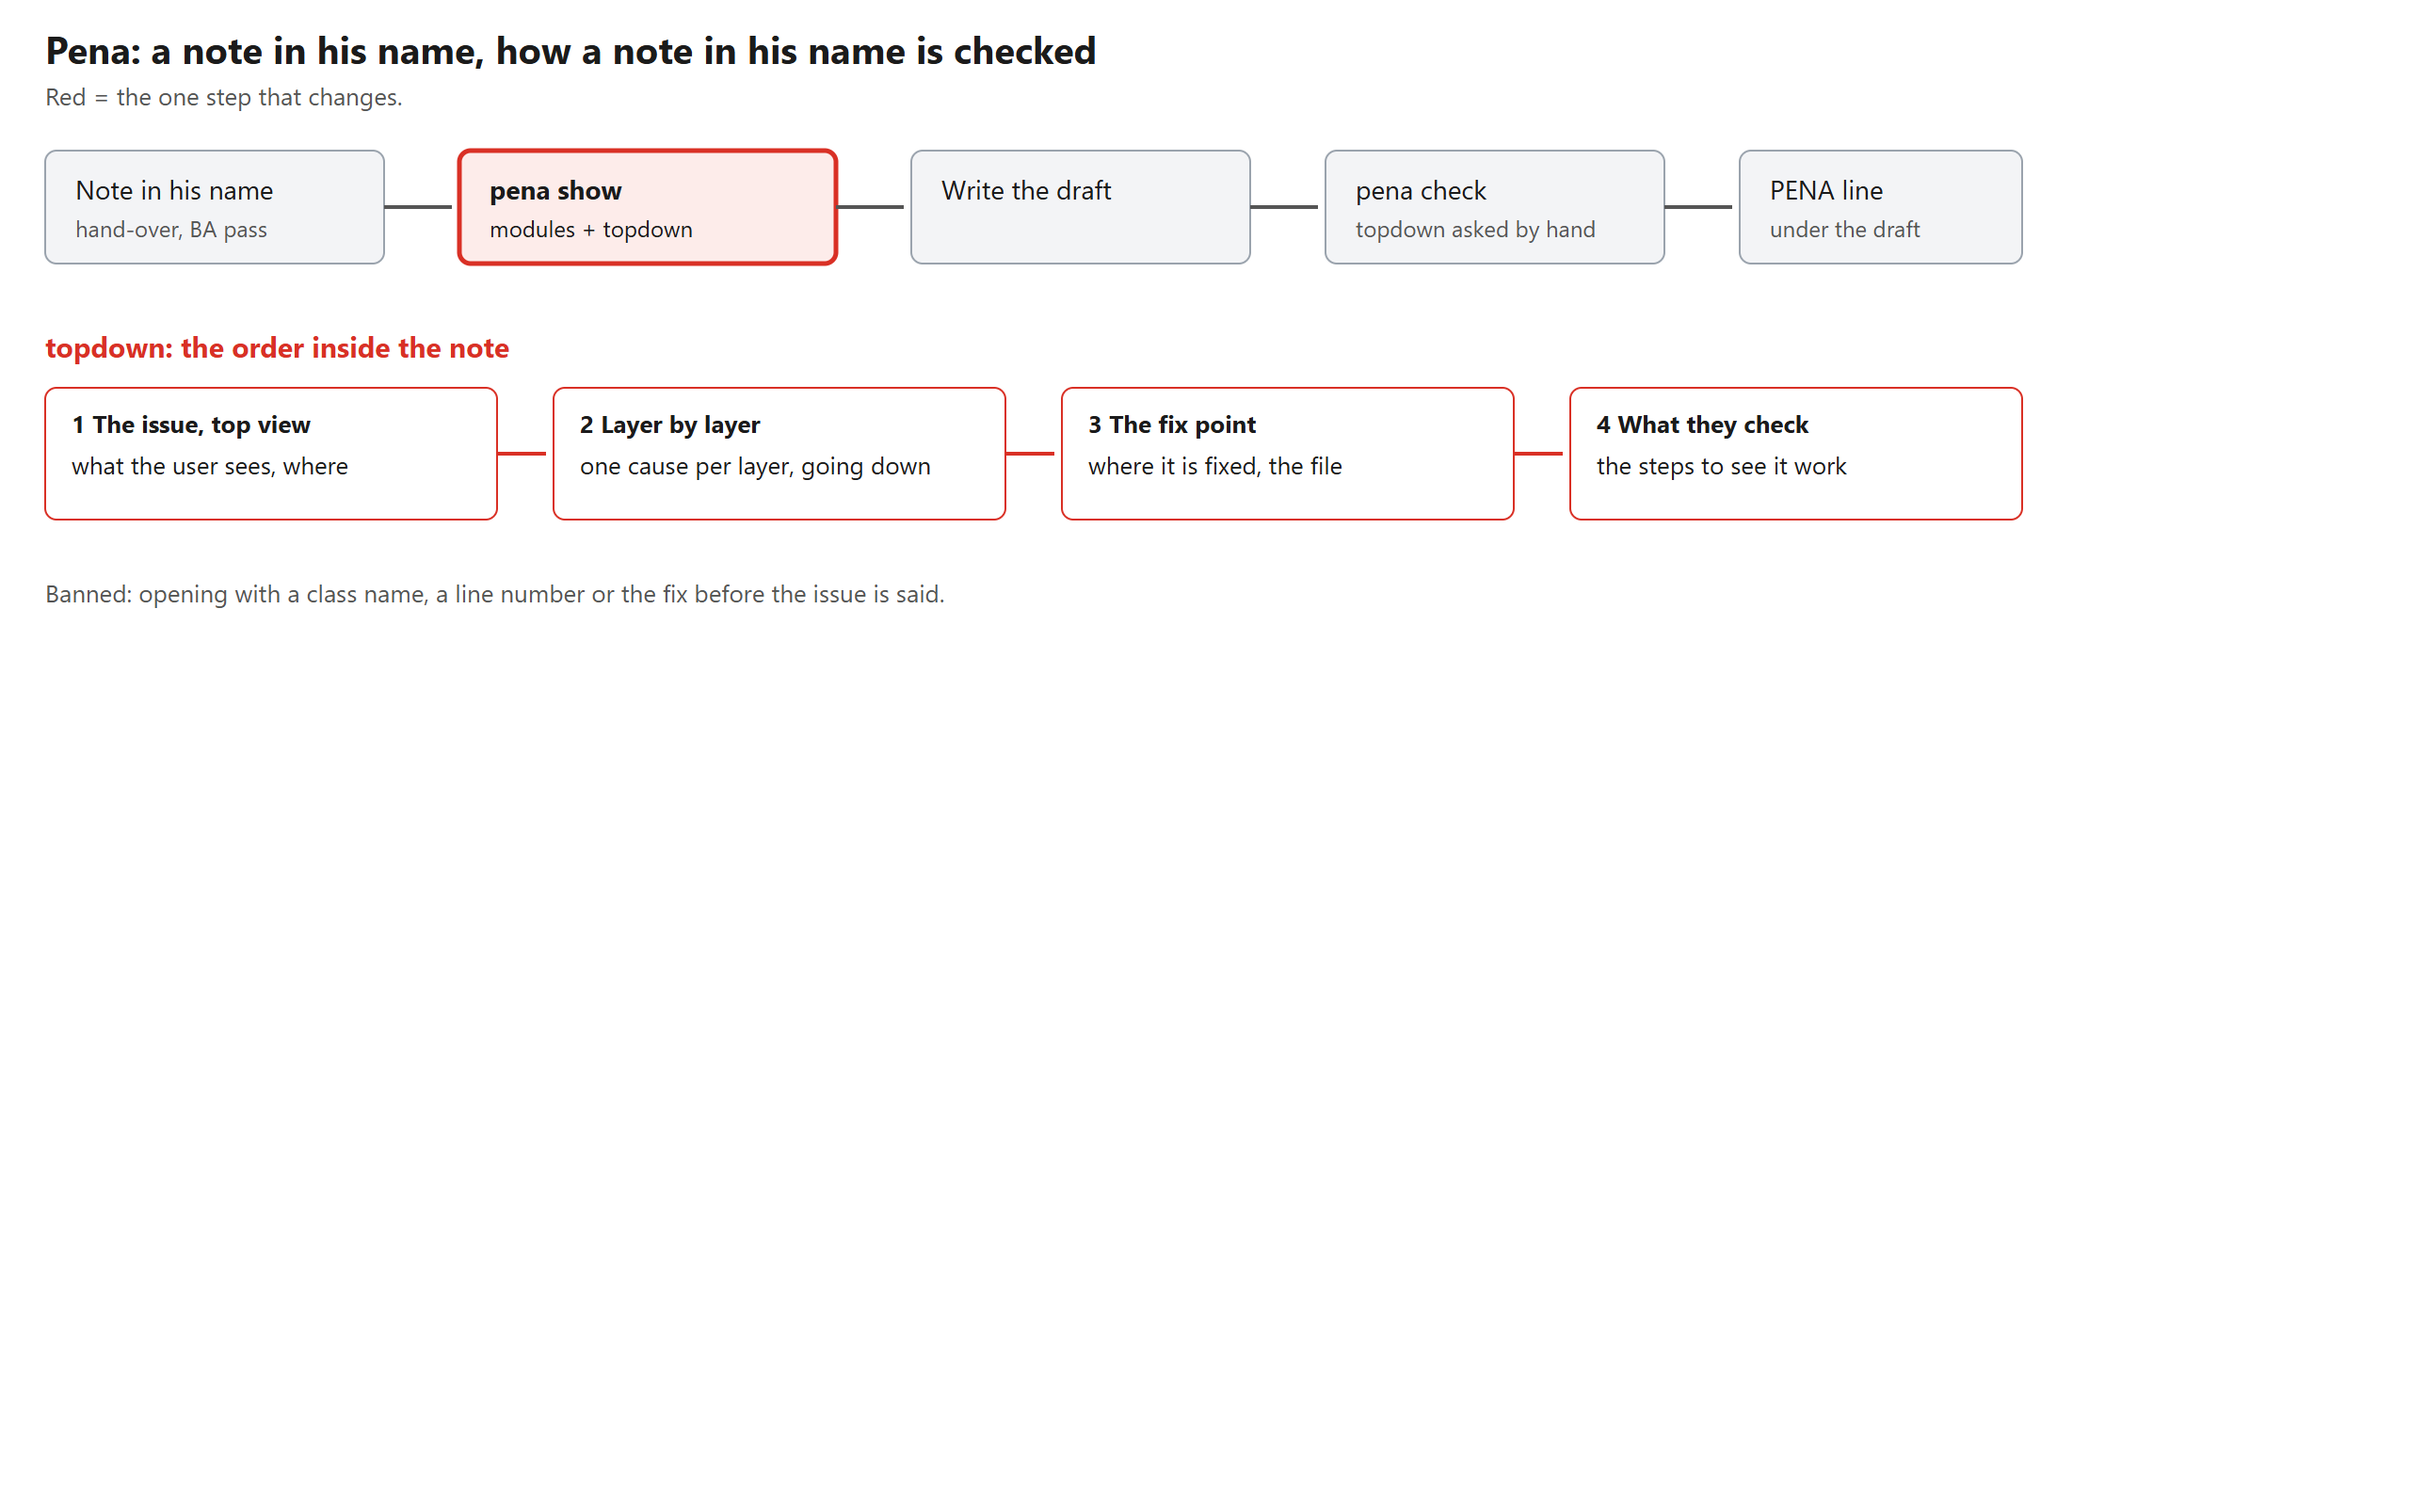
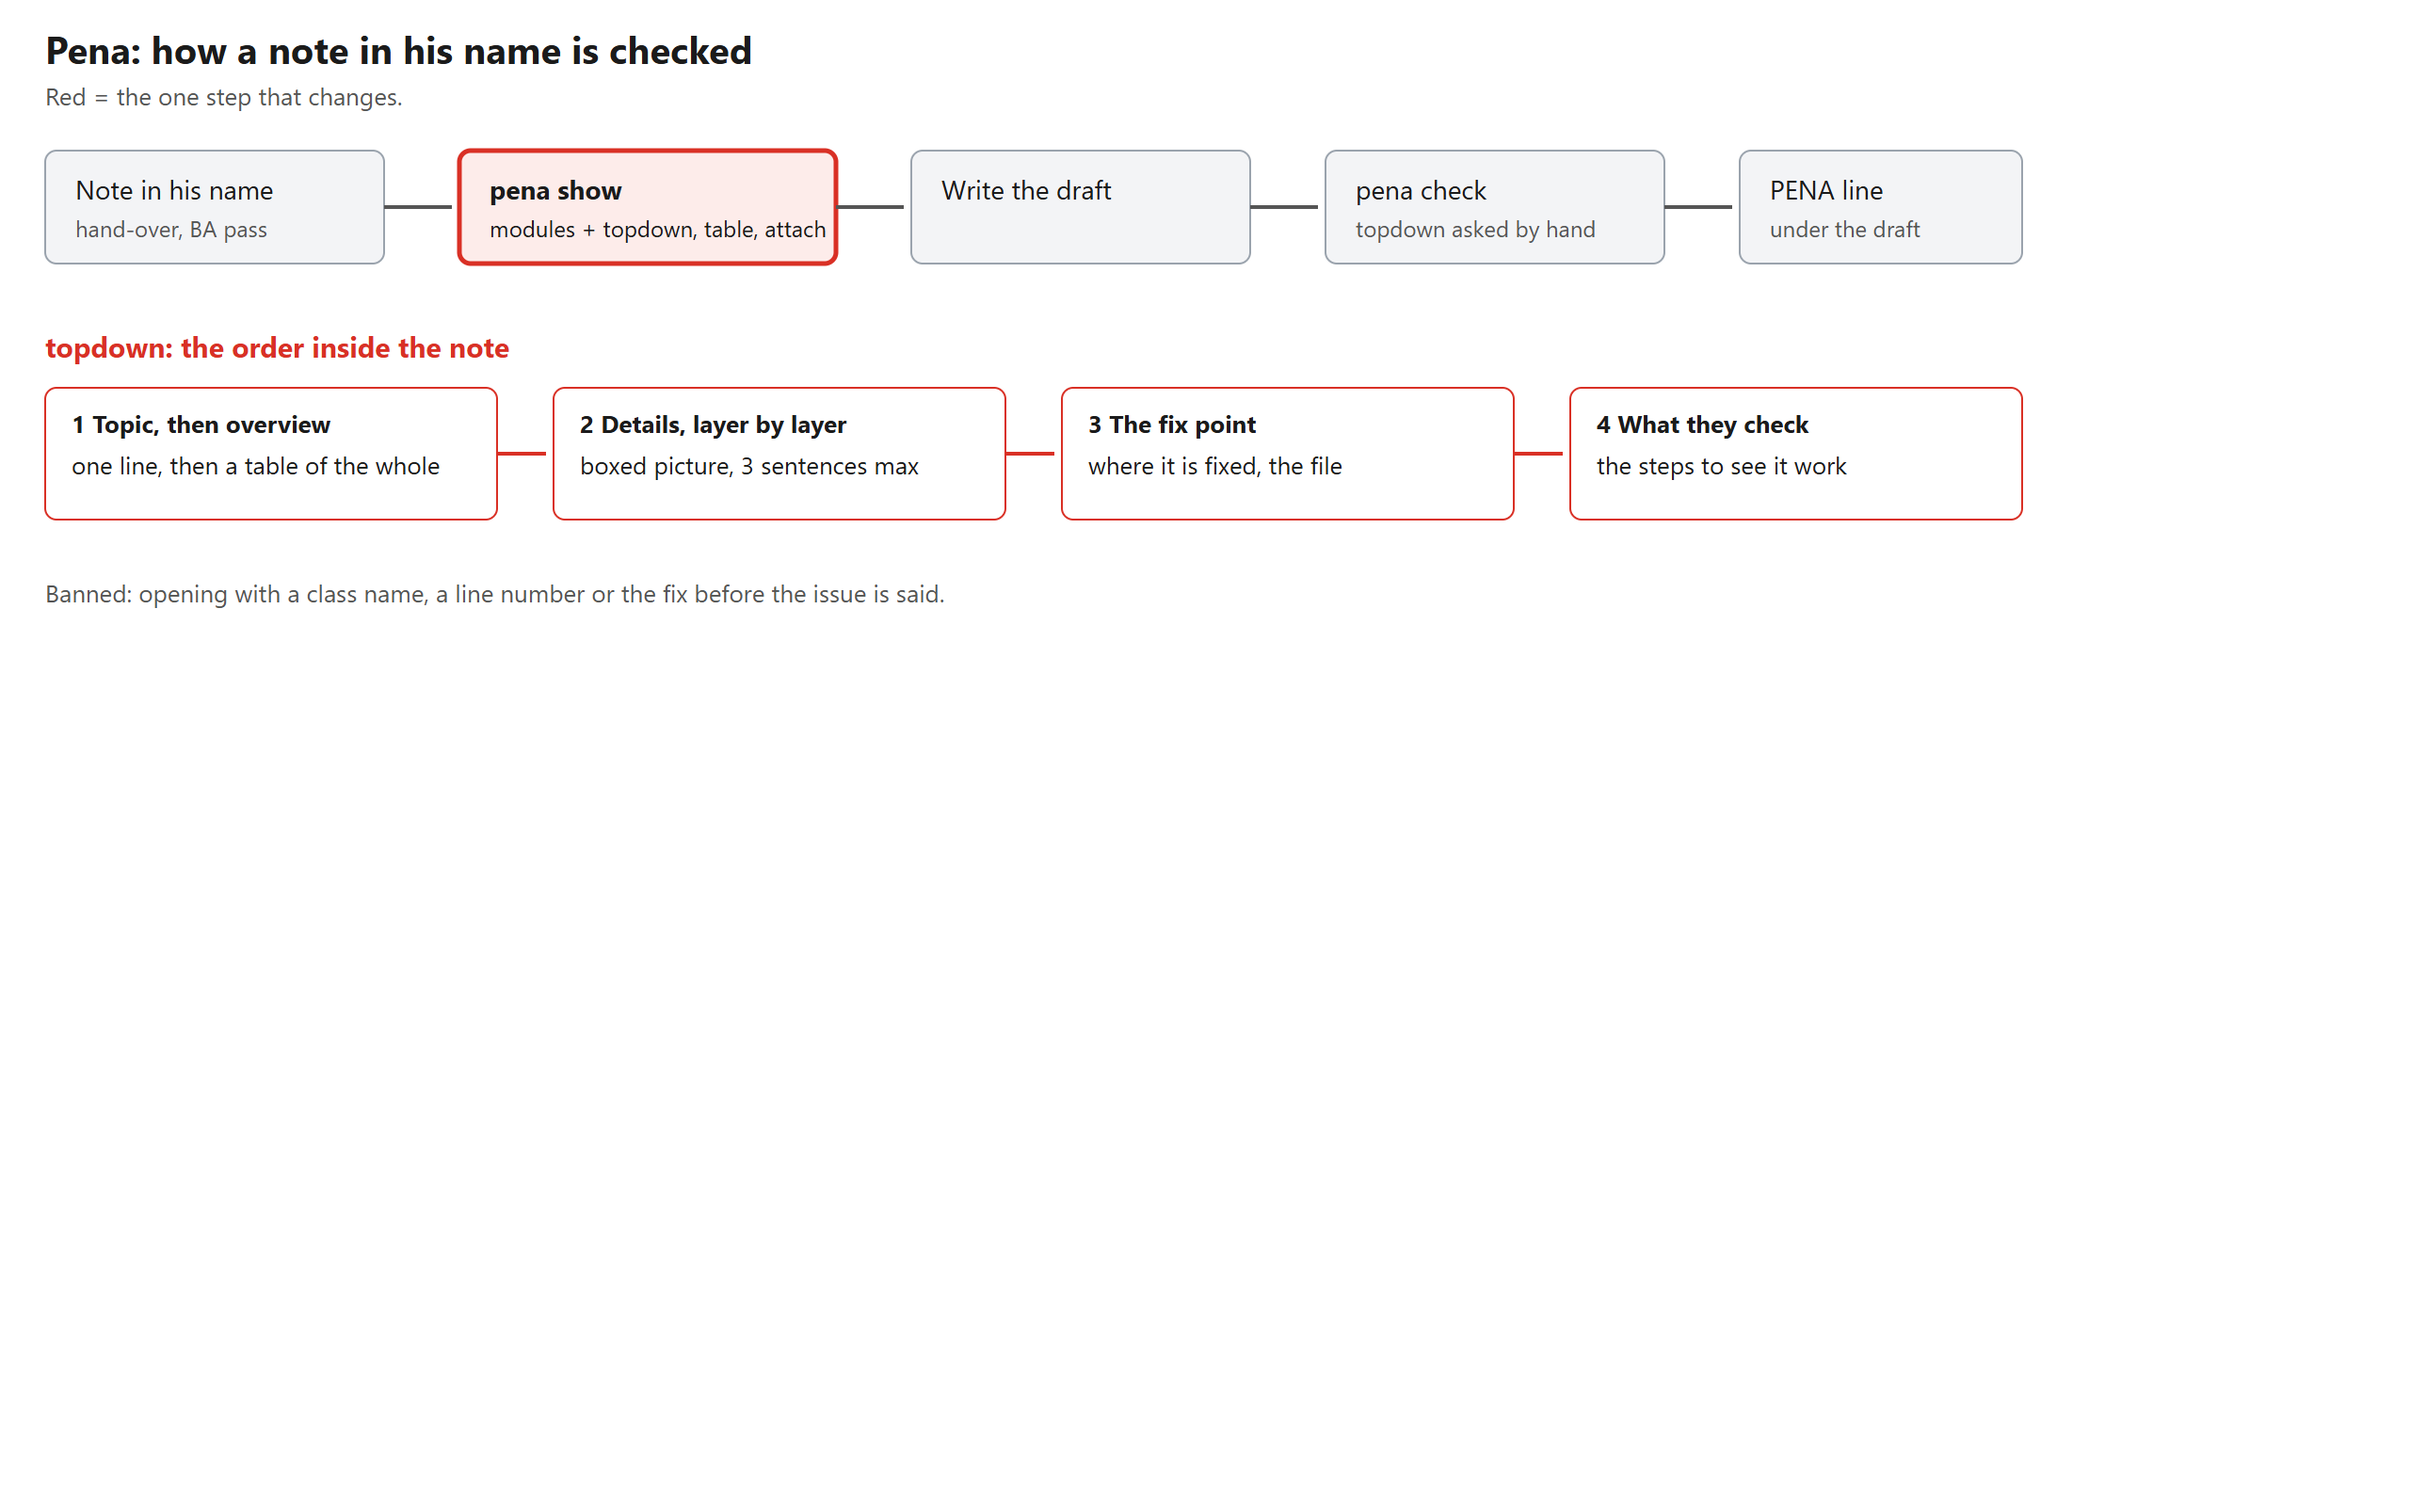
Pena: SKILL module rows + picture for topdown, table, attach

diff --git a/domain/pena/diagram.html b/domain/pena/diagram.html
@@ -4,11 +4,11 @@
 <svg xmlns="http://www.w3.org/2000/svg" width="1100" height="340" viewBox="0 0 1100 340" role="img" aria-labelledby="diagram-pena-title diagram-pena-desc" font-family="Segoe UI, Arial, sans-serif">
   <title id="diagram-pena-title">Pena flow how a note in his name is checked</title>
   <desc id="diagram-pena-desc">A note in miya's name goes through Pena: show the modules, write the draft, check it, put the PENA line under it. The changed step is the module list, which now carries topdown: the issue as the user sees it first, then one layer per cause, then the fix, then what the reader checks.</desc>
-  <text x="24" y="34" font-size="20" font-weight="700" fill="#1b1b1b">Pena: a note in his name, how a note in his name is checked</text>
+  <text x="24" y="34" font-size="20" font-weight="700" fill="#1b1b1b">Pena: how a note in his name is checked</text>
   <text x="24" y="56" font-size="13" fill="#555">Red = the one step that changes.</text>
   <g font-size="14" fill="#1b1b1b">
     <rect x="24" y="80" width="180" height="60" rx="6" fill="#f3f4f6" stroke="#9aa3ad"/><text x="40" y="106">Note in his name</text><text x="40" y="126" font-size="12" fill="#555">hand-over, BA pass</text>
-    <rect x="244" y="80" width="200" height="60" rx="6" fill="#fdecea" stroke="#d93025" stroke-width="2.5"/><text x="260" y="106" font-weight="700">pena show</text><text x="260" y="126" font-size="12">modules + topdown</text>
+    <rect x="244" y="80" width="200" height="60" rx="6" fill="#fdecea" stroke="#d93025" stroke-width="2.5"/><text x="260" y="106" font-weight="700">pena show</text><text x="260" y="126" font-size="12">modules + topdown, table, attach</text>
     <rect x="484" y="80" width="180" height="60" rx="6" fill="#f3f4f6" stroke="#9aa3ad"/><text x="500" y="106">Write the draft</text>
     <rect x="704" y="80" width="180" height="60" rx="6" fill="#f3f4f6" stroke="#9aa3ad"/><text x="720" y="106">pena check</text><text x="720" y="126" font-size="12" fill="#555">topdown asked by hand</text>
     <rect x="924" y="80" width="150" height="60" rx="6" fill="#f3f4f6" stroke="#9aa3ad"/><text x="940" y="106">PENA line</text><text x="940" y="126" font-size="12" fill="#555">under the draft</text>
@@ -18,8 +18,8 @@
   </g>
   <text x="24" y="190" font-size="15" font-weight="700" fill="#d93025">topdown: the order inside the note</text>
   <g font-size="13" fill="#1b1b1b">
-    <rect x="24" y="206" width="240" height="70" rx="6" fill="#fff" stroke="#d93025"/><text x="38" y="230" font-weight="700">1 The issue, top view</text><text x="38" y="252">what the user sees, where</text>
-    <rect x="294" y="206" width="240" height="70" rx="6" fill="#fff" stroke="#d93025"/><text x="308" y="230" font-weight="700">2 Layer by layer</text><text x="308" y="252">one cause per layer, going down</text>
+    <rect x="24" y="206" width="240" height="70" rx="6" fill="#fff" stroke="#d93025"/><text x="38" y="230" font-weight="700">1 Topic, then overview</text><text x="38" y="252">one line, then a table of the whole</text>
+    <rect x="294" y="206" width="240" height="70" rx="6" fill="#fff" stroke="#d93025"/><text x="308" y="230" font-weight="700">2 Details, layer by layer</text><text x="308" y="252">boxed picture, 3 sentences max</text>
     <rect x="564" y="206" width="240" height="70" rx="6" fill="#fff" stroke="#d93025"/><text x="578" y="230" font-weight="700">3 The fix point</text><text x="578" y="252">where it is fixed, the file</text>
     <rect x="834" y="206" width="240" height="70" rx="6" fill="#fff" stroke="#d93025"/><text x="848" y="230" font-weight="700">4 What they check</text><text x="848" y="252">the steps to see it work</text>
   </g>

diff --git a/.claude/skills/pena/SKILL.md b/.claude/skills/pena/SKILL.md
@@ -29,6 +29,8 @@ footprint: on-demand: 1 node process under 1 second per show, add or check; noth
 | `plain` | BA text: no file names, line numbers or code words. |
 | `rojak` | Malay notes in his rojak. Dev words and connectors stay English. |
 | `hint` | Junior handover: where to look, never the cause or the fix. Checked by hand. |
+| `topdown` | Issue or topic in one line > overview (1 to 3 short sentences or one table) > details layer by layer > what the reader checks. Checked by hand. |
+| `attach` | Check every file we hold for one that shows the point; red-box it, cut the sentences it proves, name what each attachment shows. Checked by hand. |
 
 The full meaning, rules and banned list of each module live in `domain/pena/modules.json`. Read them with `show`; never retype them here.
 
